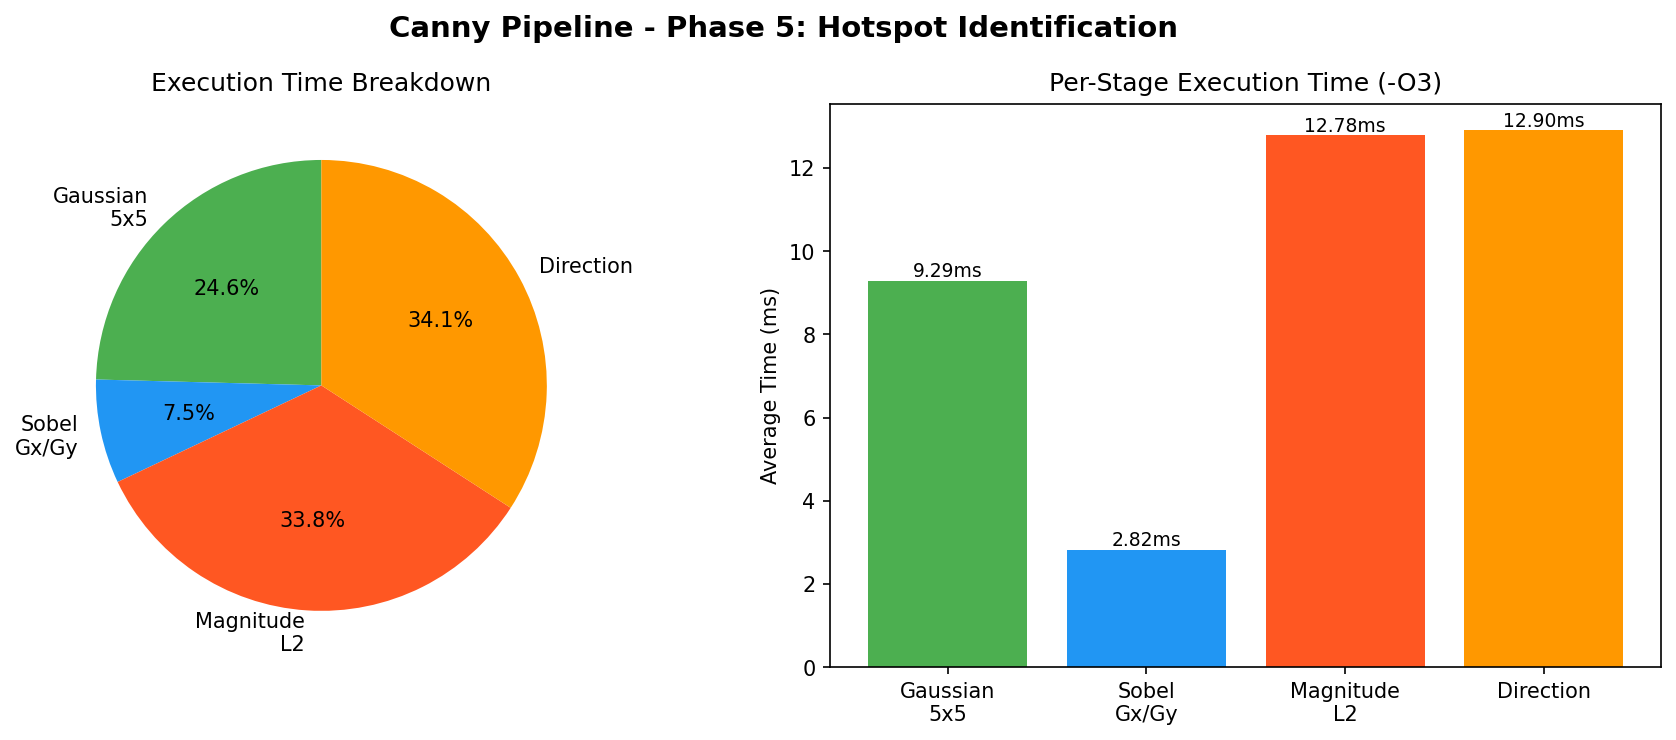
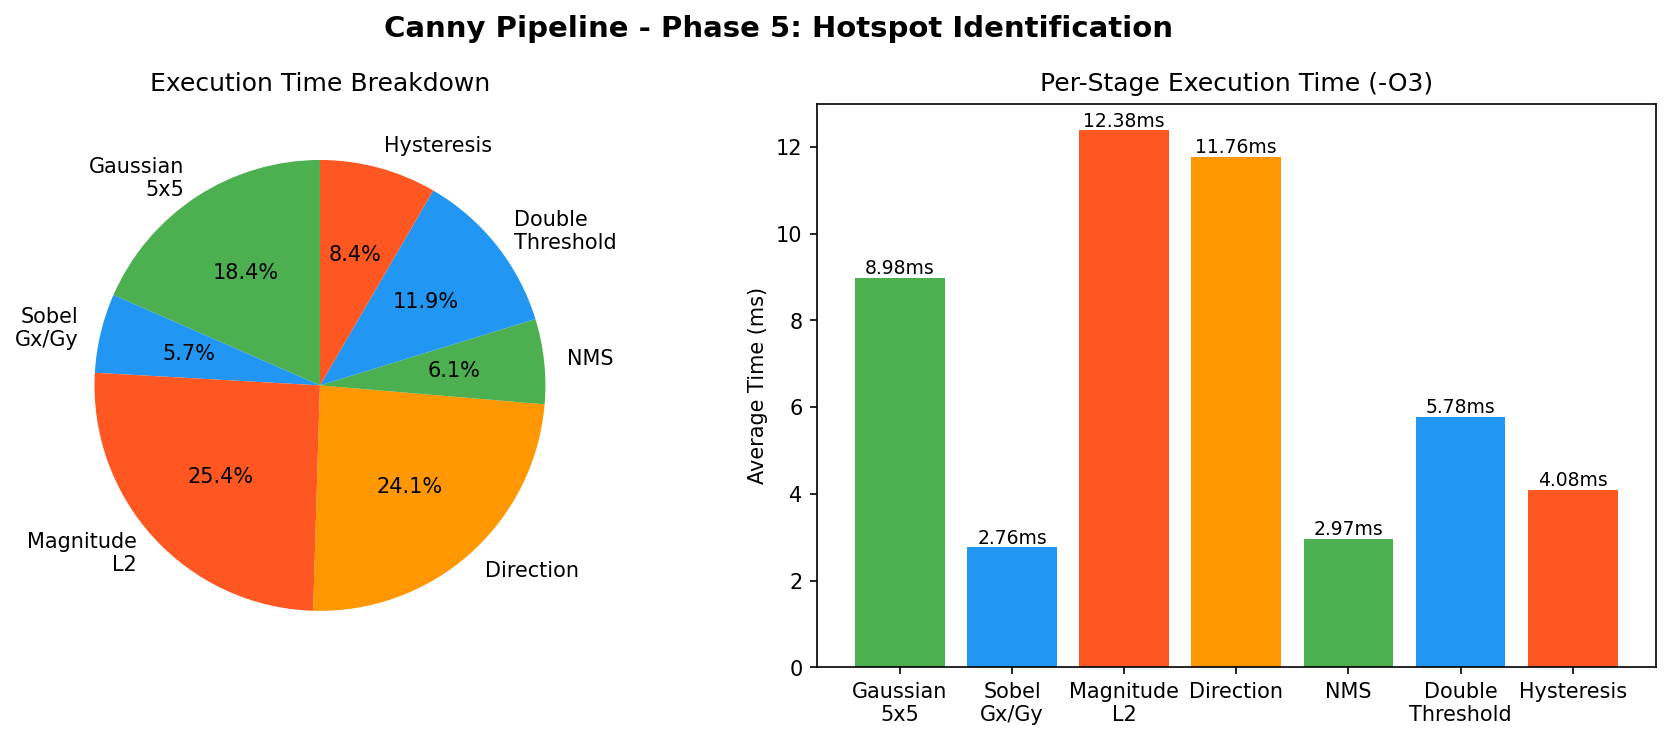
AhmedAshraf: Phase 5 - Full pipeline profiling (7 stages)

diff --git a/src/main.cpp b/src/main.cpp
@@ -49,6 +49,7 @@ int main() {
     clock_t start_time, end_time;
     double elapsed_ms;
     double gaussian_ms, sobel_ms, magnitude_ms, direction_ms;
+    double nms_ms, dt_ms, hysteresis_ms;
 
     cerr << "--- Starting Phase 4 Performance Sweeps (" << ITERATIONS << " iterations) ---\n";
 
@@ -62,7 +63,7 @@ int main() {
     end_time = clock();
     
     elapsed_ms = (double)(end_time - start_time) / CLOCKS_PER_SEC * 1000.0;
-    cerr << "Gaussian 5x5 Average Time : " << (elapsed_ms / ITERATIONS) << " ms\n";
+    cerr << "Gaussian 5x5 Average Time  : " << (elapsed_ms / ITERATIONS) << " ms\n";
     gaussian_ms = (double)(end_time - start_time) / CLOCKS_PER_SEC * 1000.0 / ITERATIONS;
 
     // ==========================================
@@ -91,12 +92,13 @@ int main() {
     
     elapsed_ms = (double)(end_time - start_time) / CLOCKS_PER_SEC * 1000.0;
     cerr << "Magnitude Average Time     : " << (elapsed_ms / ITERATIONS) << " ms\n";
+    magnitude_ms = (double)(end_time - start_time) / CLOCKS_PER_SEC * 1000.0 / ITERATIONS;
 
     // Step 5c: Convert L2 to uint16_t for NMS (preserves full range ~0-1441)
     for (int i = 0; i < N; ++i)
         mag_l2_u16[i] = static_cast<uint16_t>(mag_l2[i]);
 
-    magnitude_ms = (double)(end_time - start_time) / CLOCKS_PER_SEC * 1000.0 / ITERATIONS;
+    
     // ==========================================
     // Step 6: Gradient direction
     // ==========================================
@@ -109,22 +111,52 @@ int main() {
     elapsed_ms = (double)(end_time - start_time) / CLOCKS_PER_SEC * 1000.0;
     cerr << "Direction Average Time     : " << (elapsed_ms / ITERATIONS) << " ms\n";
     direction_ms = (double)(end_time - start_time) / CLOCKS_PER_SEC * 1000.0 / ITERATIONS;
-    cerr << "---------------------------------------------------------\n";
 
-    // Step 7: Non-Maximum Suppression (thins edges to 1-pixel width)
-    non_maximum_suppression(mag_l2_u16.data(), direction.data(),
-                            nms_out.data(), W, H);
+    // ==========================================
+    // Step 7: Non-Maximum Suppression
+    // ==========================================
+    start_time = clock();
+    for (int i = 0; i < ITERATIONS; ++i) {
+        non_maximum_suppression(mag_l2_u16.data(), direction.data(), nms_out.data(), W, H);
+    }
+    end_time = clock();
 
+    elapsed_ms = (double)(end_time - start_time) / CLOCKS_PER_SEC * 1000.0;
+    cerr << "NMS Average Time           : " << (elapsed_ms / ITERATIONS) << " ms\n";
+    nms_ms = elapsed_ms / ITERATIONS;
+
+    // ==========================================
     // Step 8: Double Threshold
-    double_threshold(nms_out.data(), dt_out.data(), N,
-                     /*low=*/10, /*high=*/30);
+    // ==========================================
+    start_time = clock();
+    for (int i = 0; i < ITERATIONS; ++i){
+        double_threshold(nms_out.data(), dt_out.data(), N, 10, 30);
+    }
+    end_time = clock();
+
+    elapsed_ms = (double)(end_time - start_time) / CLOCKS_PER_SEC * 1000.0;
+    cerr << "Double Threshold Avg Time  : " << (elapsed_ms / ITERATIONS) << " ms\n";
+    dt_ms = elapsed_ms / ITERATIONS;
 
     // saves doublethresholding before used in hysteresis
     FILE* g = fopen("/tmp/dt_out.raw", "wb");
     if (g) { fwrite(dt_out.data(), 1, N, g); fclose(g); }
 
-    // Step 9: Hysteresis (in-place on dt_out)
-    hysteresis(dt_out.data(), W, H);
+    // ==========================================
+    // Step 9: Hysteresis
+    // ==========================================
+
+    start_time = clock();
+    for (int i = 0; i < ITERATIONS; ++i){
+        hysteresis(dt_out.data(), W, H);
+    }    
+    end_time = clock();
+
+    elapsed_ms = (double)(end_time - start_time) / CLOCKS_PER_SEC * 1000.0;
+    cerr << "Hysteresis Average Time    : " << (elapsed_ms / ITERATIONS) << " ms\n";
+    hysteresis_ms = elapsed_ms / ITERATIONS;
+
+     cerr << "---------------------------------------------------------\n";
 
     // Step 10: Write outputs to stdout (L2 | L1 | NMS | double threshold)
     fwrite(mag_l2.data(),  1, N, stdout);
@@ -145,14 +177,19 @@ int main() {
     FILE* h = fopen("/tmp/hysteresis_out.raw", "wb");
     if (h) { fwrite(dt_out.data(), 1, N, h); fclose(h); }
     
-    // Phase 5: Hotspot Identification
-    double total_ms = gaussian_ms + sobel_ms + magnitude_ms + direction_ms;
+    // ==========================================
+      // Phase 5: Hotspot Identification
+    // ==========================================
+    double total_ms = gaussian_ms + sobel_ms + magnitude_ms + direction_ms + nms_ms + dt_ms + hysteresis_ms;
     cerr << "\n--- Phase 5: Hotspot Identification ---\n";
-    cerr << "Gaussian  : " << (gaussian_ms  / total_ms * 100.0) << "%\n";
-    cerr << "Sobel     : " << (sobel_ms     / total_ms * 100.0) << "%\n";
-    cerr << "Magnitude : " << (magnitude_ms / total_ms * 100.0) << "%\n";
-    cerr << "Direction : " << (direction_ms / total_ms * 100.0) << "%\n";
-    cerr << "Total avg : " << total_ms << " ms per iteration\n"; 
+    cerr << "Gaussian  : " << (gaussian_ms   / total_ms * 100.0) << "%\n";
+    cerr << "Sobel     : " << (sobel_ms      / total_ms * 100.0) << "%\n";
+    cerr << "Magnitude : " << (magnitude_ms  / total_ms * 100.0) << "%\n";
+    cerr << "Direction : " << (direction_ms  / total_ms * 100.0) << "%\n";
+    cerr << "NMS       : " << (nms_ms        / total_ms * 100.0) << "%\n";
+    cerr << "D.Thresh  : " << (dt_ms         / total_ms * 100.0) << "%\n";
+    cerr << "Hysteresis: " << (hysteresis_ms / total_ms * 100.0) << "%\n";
+    cerr << "Total avg : " << total_ms << " ms per iteration\n";
 
     return 0;
 }

diff --git a/scripts/phase5_profile.py b/scripts/phase5_profile.py
@@ -3,8 +3,8 @@ matplotlib.use('Agg')
 import matplotlib.pyplot as plt
 
 # Phase 5 Results
-stages = ['Gaussian\n5x5', 'Sobel\nGx/Gy', 'Magnitude\nL2', 'Direction']
-times  = [9.29, 2.82, 12.78, 12.90]
+stages = ['Gaussian\n5x5', 'Sobel\nGx/Gy', 'Magnitude\nL2', 'Direction', 'NMS', 'Double\nThreshold', 'Hysteresis']
+times  = [8.9815, 2.76277, 12.3814 , 11.7632, 2.96779, 5.78142, 4.08238] 
 colors = ['#4CAF50', '#2196F3', '#FF5722', '#FF9800']
 
 fig, (ax1, ax2) = plt.subplots(1, 2, figsize=(12, 5))